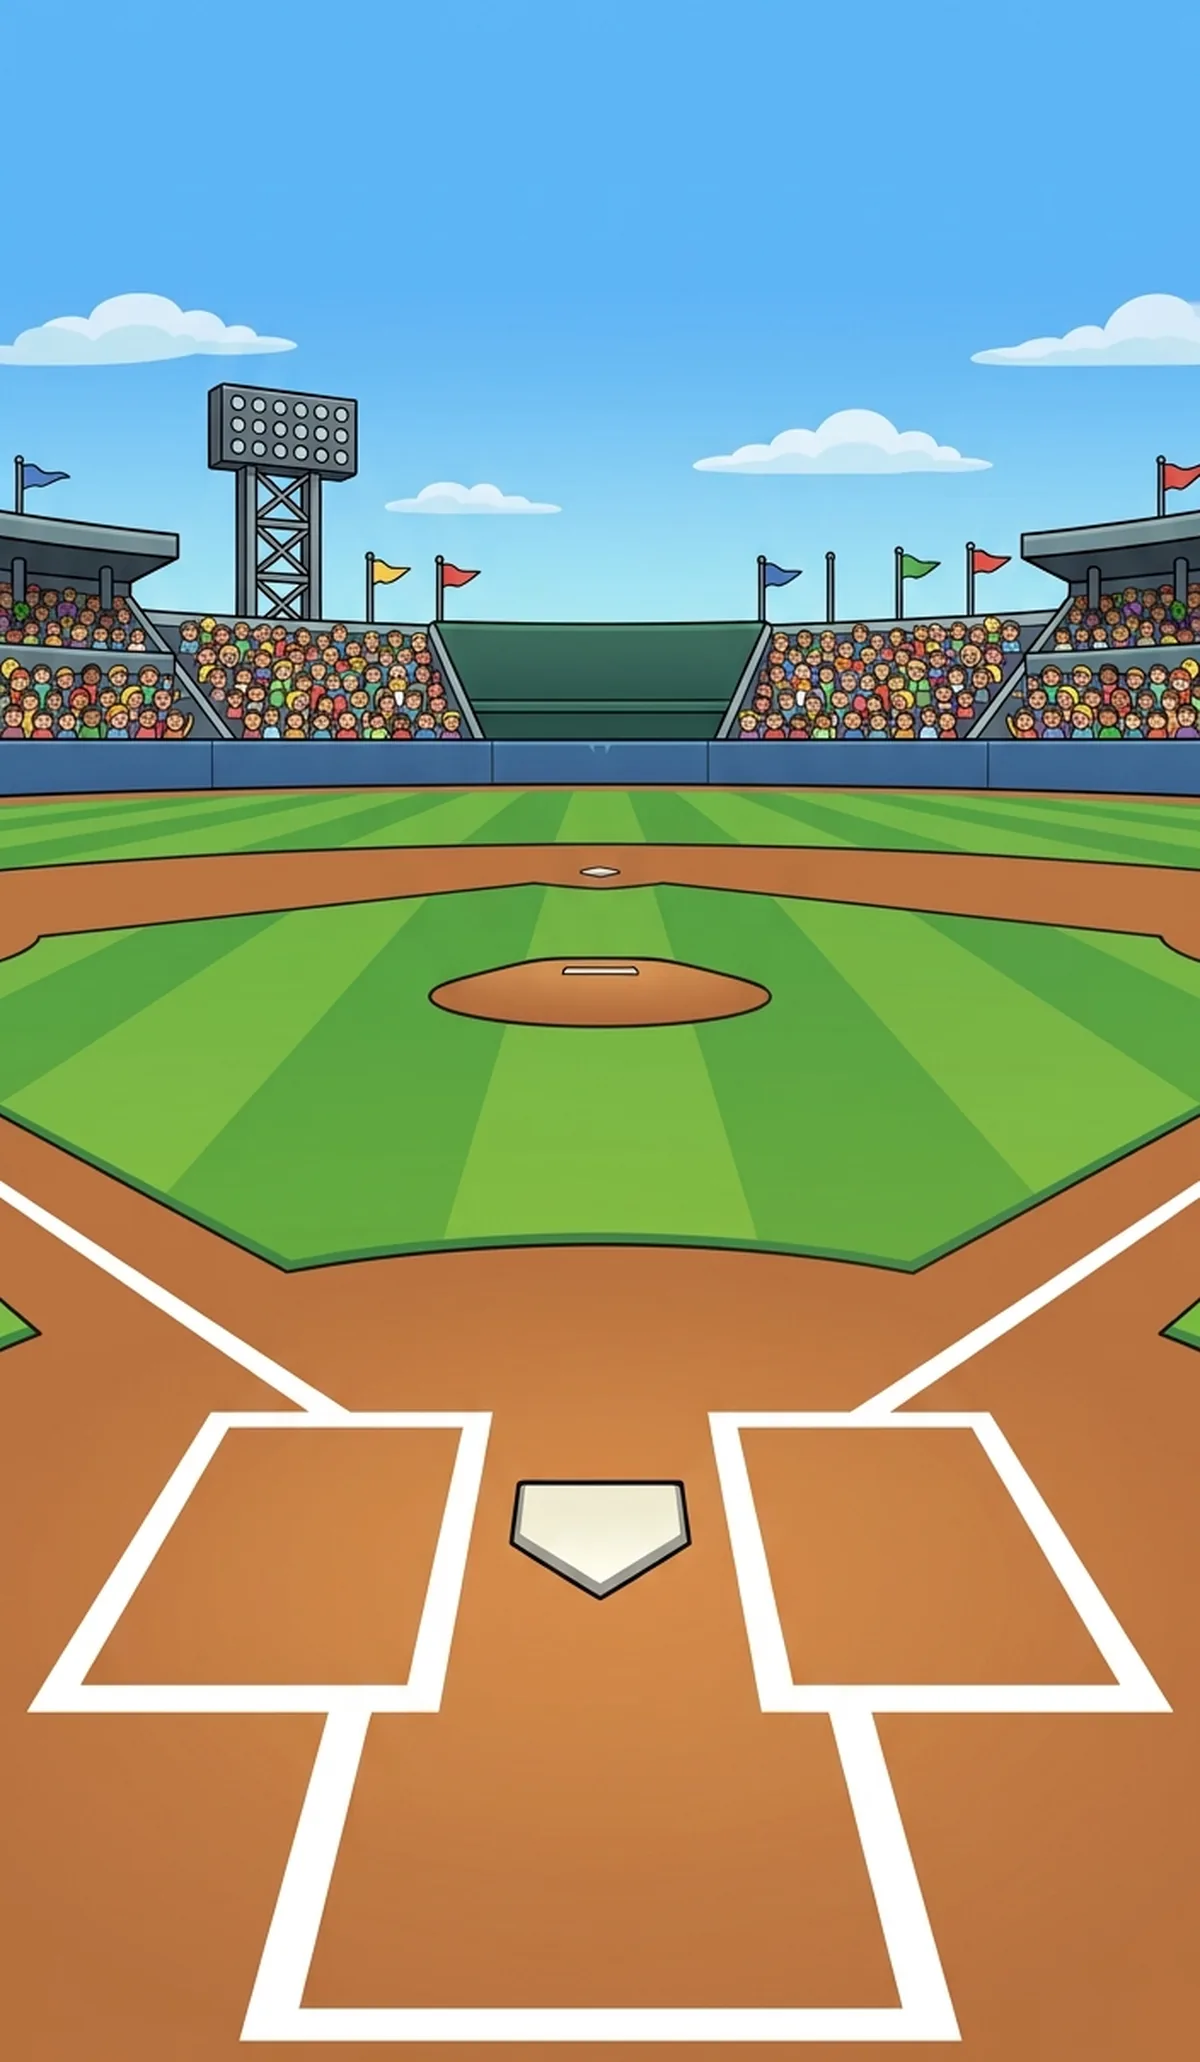
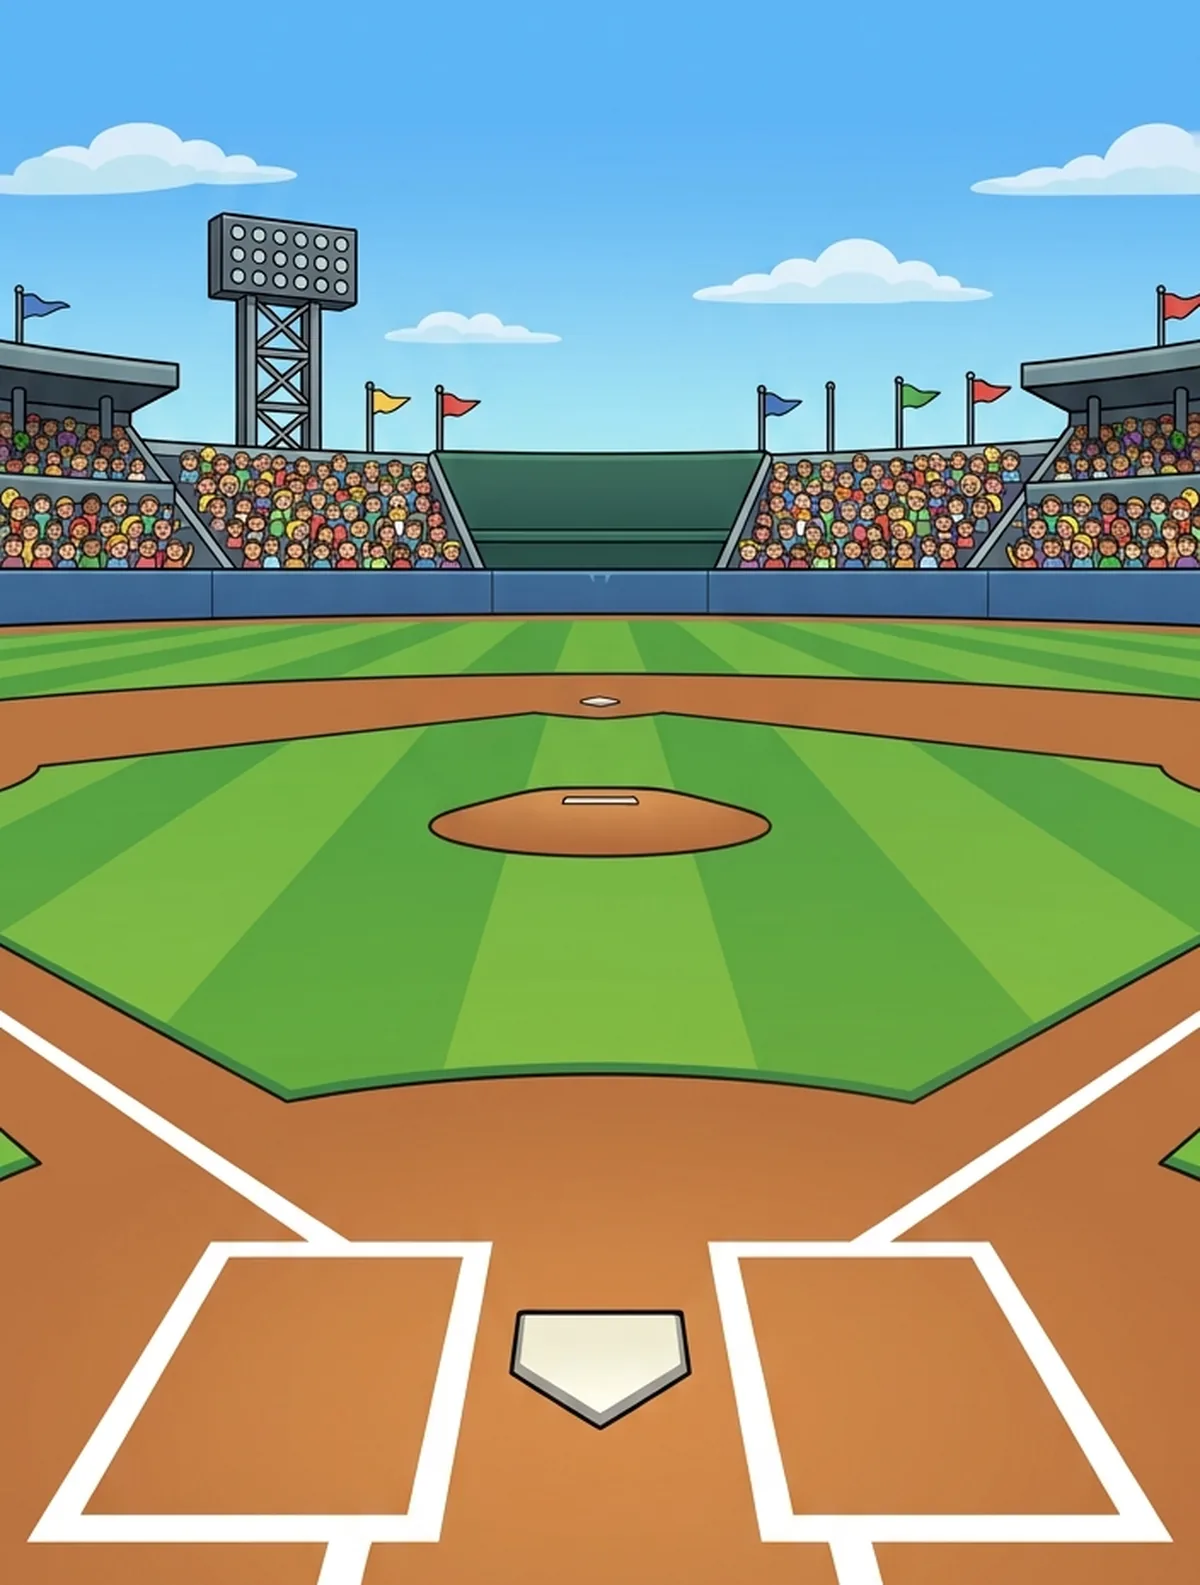
Baseball BB-3b: three review fixes before the pitcher frames
1. Steering direction clamp (doc section 11, [Locked]: "Curve and slider
   break away from the pitcher's throwing arm... You control how much and
   when, never which way"). The current build let a player's drag
   direction pick which way a curveball/slider bent, contradicting the
   lock. pitch.js gains steerDirectionSign(type, hand) and
   clampSteerDx(dirSign, dx), both pure and exported; flyPitch clamps
   every steer sample to the one physically correct direction for the
   pitch type and pitcherHand (new, additive pitchExtras field, default
   'R') before resolveSteer averages them - a wrong-way drag now
   contributes exactly 0. game.js passes the real pitcher's own .throws
   through pitchExtras.pitcherHand; ui.js's HumanAgent applies the
   identical clamp (same functions, same hand) to its own live preview
   and the break-direction arrow, so what the player sees always matches
   what the engine scores. 5 new engine tests (section 28): a wrong-way
   drag does nothing, a right-way drag still bends, a left-handed
   pitcher mirrors both, and omitting pitcherHand defaults to 'R'.

2. The strikeout/walk double pause. R2's cadence fix (commit 4) added a
   resultMs+betweenMs pause to the 'count' event handler for every
   non-atBat-ending pitch - but game.js emits 'count' for EVERY pitch
   that doesn't put the ball in play, strikeout and walk included, and
   then checks the threshold and emits 'atBatEnd' on the SAME pitch
[…]

diff --git a/baseball/js/engine/pitch.js b/baseball/js/engine/pitch.js
@@ -37,6 +37,26 @@ export function resolveSteer(steerArr, stepFilter) {
   return wSum > 0 ? dSum / wSum : 0;
 }
 
+/** doc §11, [Locked]: "Curve and slider break away from the pitcher's throwing arm. Screwball
+ *  breaks the other way. You control how much and when, never which way." So the break direction
+ *  is a fact of the pitch TYPE and the pitcher's own HAND, never the player's drag - this is the
+ *  one true sign for a given (type, hand) pair. `hand` is 'L' or 'R' (teams.js's own `throws`
+ *  field); anything else falls back to 'R'. Exported so the UI's own preview, its break-direction
+ *  arrow, and this file's own scoring all read the same fact from the same place (never
+ *  reimplemented three times to silently drift apart). */
+export function steerDirectionSign(type, hand) {
+  const armSign = hand === 'L' ? -1 : 1; // a right-handed arm's own natural break side is +1
+  return type === 'screwball' ? -armSign : armSign;
+}
+
+/** A single steer sample's dx, clamped to the one physically correct direction (`dirSign`, from
+ *  `steerDirectionSign`) - a drag the WRONG way contributes exactly 0, per the doc's own "never
+ *  which way" lock, rather than partially cancelling a correct-direction drag or (worse) bending
+ *  the pitch backward. Pure. */
+export function clampSteerDx(dirSign, dx) {
+  return dx * dirSign > 0 ? dx : 0;
+}
+
 /**
  * Throw one pitch.
  * @param {string} type - a PITCH_TYPES entry
@@ -47,14 +67,15 @@ export function resolveSteer(steerArr, stepFilter) {
  * @param {function} rand01 - () => next draw in [0,1); caller owns advancing/snapshotting state
  * @param {{pitchSpd?:number, pitchSpin?:number}} [pitcherSkills] - the pitcher's own raw skill
  *   points for §6's "Speed: pitch velocity" and "Spin: ...bigger speed gap on the changeup."
- * @param {{hold?:number|null, steer?:Array<{step:number,dx:number}>, scatter?:number}} [pitchExtras]
+ * @param {{hold?:number|null, steer?:Array<{step:number,dx:number}>, scatter?:number, pitcherHand?:string}} [pitchExtras]
  *   - BB-3: a human pitcher's hold time in ms (null/omitted = a tap, i.e. a normal pitch) and any
  *   in-flight steer samples for a steerable type. BB-3b commit 4: `scatter`, a pre-rolled [0,1)
  *   draw (the SAME draw this function would otherwise make itself via `rand01()`) - lets a human
  *   pitcher's own UI preview the pitch's aim-scatter component before this function ever runs (see
  *   game.js's `previewsPitch` seam), so what the player watched during the throw is exactly what
- *   gets scored, not a second independent draw. Omit entirely for byte-identical prior behavior -
- *   every field here is optional and additive.
+ *   gets scored, not a second independent draw. `pitcherHand` ('L'/'R', default 'R') - which way a
+ *   steerable pitch's break clamps to (see `steerDirectionSign`); irrelevant without `steer`.
+ *   Omit entirely for byte-identical prior behavior - every field here is optional and additive.
  * @returns {{type, x, isStrike, timeToPlateS, path, wasNice, wasHang}}
  */
 export function flyPitch(type, aimX, pitchAccSkill01, settings, rand01, pitcherSkills = {}, pitchExtras = null) {
@@ -122,7 +143,13 @@ export function flyPitch(type, aimX, pitchAccSkill01, settings, rand01, pitcherS
   if (steerable && pitchExtras && pitchExtras.steer && pitchExtras.steer.length) {
     const fromStep = Math.floor((steerable.steerFromFrac || 0) * totalSteps);
     const steerMaxOffset = settings.STEER_MAX_OFFSET != null ? settings.STEER_MAX_OFFSET : STEER_MAX_OFFSET;
-    const netSteer = resolveSteer(pitchExtras.steer, (step) => step >= fromStep);
+    // doc §11, [Locked]: the break direction is the pitch type and the pitcher's OWN hand, never
+    // the player's drag - a sample dragged the wrong way is clamped to 0 (see steerDirectionSign/
+    // clampSteerDx's own header) before it ever reaches resolveSteer's weighted average.
+    const hand = (pitchExtras && pitchExtras.pitcherHand) || 'R';
+    const dirSign = steerDirectionSign(type, hand);
+    const clamped = pitchExtras.steer.map((s) => (s && typeof s.dx === 'number') ? { step: s.step, dx: clampSteerDx(dirSign, s.dx) } : s);
+    const netSteer = resolveSteer(clamped, (step) => step >= fromStep);
     x += netSteer * steerMaxOffset * breakMul;
   }
 

diff --git a/baseball/js/ui.js b/baseball/js/ui.js
@@ -13,7 +13,7 @@ import * as SETTINGS from './engine/settings.js';
 import { Game } from './engine/game.js';
 import { CpuPitcher, CpuBatter } from './engine/agents.js';
 import { makeLeague, makePlayerTeam } from './engine/teams.js';
-import { resolveSteer } from './engine/pitch.js';
+import { resolveSteer, steerDirectionSign, clampSteerDx } from './engine/pitch.js';
 import { drawField, drawBall, drawLandingMarker, project, drawPlateView, drawPlateBall, preloadPlateImages, drawFrameCheck } from './field.js';
 import { drawRingState, RING_D, BTN_D, NICE_CENTER, NICE_HALF } from './ring.js';
 
@@ -555,8 +555,19 @@ class BaseballPlayScreen {
       // result-hold + between-pitch gap when a pitch CONCLUDES the at-bat; this is the other
       // case - a plain ball/strike/foul that doesn't - so every pitch gets the identical pause
       // before the next one's wind-up begins (`_stepWindup`, already wired since commit 3).
-      await sleep(RESULT_MS);
-      await sleep(BETWEEN_MS);
+      //
+      // BUT: game.js emits 'count' for EVERY pitch that doesn't put the ball in play, strikeout
+      // and walk included - it checks the strikeout/walk thresholds and emits 'atBatEnd' right
+      // AFTER this handler returns, on the exact same pitch. Pausing here too doubled the beat on
+      // those two outcomes (resultMs+betweenMs from this handler, then resultMs+betweenMs again
+      // from `_settleAtBat`) - a review fix. So: skip the pause here when this count is about to
+      // conclude the at-bat, and let `_settleAtBat`'s own (single) pause cover it instead.
+      const strikeoutPending = payload.strikes >= SETTINGS.MECHANICS.strikesForOut;
+      const walkPending = payload.balls >= SETTINGS.MECHANICS.ballsForWalk;
+      if (!strikeoutPending && !walkPending) {
+        await sleep(RESULT_MS);
+        await sleep(BETWEEN_MS);
+      }
     } else if (type === 'pitch') {
       // Handled inline by HumanAgent while the ball is in flight (it owns the visual).
     } else if (type === 'swing') {
@@ -949,6 +960,11 @@ class HumanAgent {
         const steerable = SETTINGS.STEERABLE_PITCHES[type];
         const fromStep = steerable ? Math.floor((steerable.steerFromFrac || 0) * totalSteps) : null;
         const steerMaxOffset = SETTINGS.STEER_MAX_OFFSET;
+        // doc §11, [Locked]: break direction is the pitch type and the pitcher's OWN hand, never
+        // the drag - clamped here exactly as game.js's own flyPitch call will clamp it (same
+        // function, same hand), so the live preview never shows a bend the engine won't score.
+        const pitcherHand = (pitcher && pitcher.throws) || 'R';
+        const dirSign = steerable ? steerDirectionSign(type, pitcherHand) : 1;
 
         const t0 = performance.now();
         const flightStep = (now) => {
@@ -956,7 +972,8 @@ class HumanAgent {
           const frac = Math.min(1, (now - t0) / durationMs);
           const stepIdx = Math.round(frac * totalSteps);
           if (steerable) steerSamples.push({ step: stepIdx, dx: s.padX - aimAtRelease });
-          const netSteer = steerable ? resolveSteer(steerSamples, (st) => st >= fromStep) : 0;
+          const clampedSamples = steerable ? steerSamples.map((sm) => ({ step: sm.step, dx: clampSteerDx(dirSign, sm.dx) })) : steerSamples;
+          const netSteer = steerable ? resolveSteer(clampedSamples, (st) => st >= fromStep) : 0;
           let liveX = baseX + netSteer * steerMaxOffset * breakMul;
           if (wasHang) liveX = liveX * (1 - SETTINGS.HANG_CENTER_PULL);
           s._drawStaticField();

diff --git a/baseball/js/test.js b/baseball/js/test.js
@@ -1856,5 +1856,35 @@ await (async function section27() {
 })();
 
 // ---------------------------------------------------------------------------------------------
+// Section 28 (BB-3b review fix): the steering direction clamp. Doc §11, [Locked]: "Curve and
+// slider break away from the pitcher's throwing arm... You control how much and when, never
+// which way." A drag the wrong way must produce NO bend, not a smaller or reversed one.
+(function section28() {
+  const rHand = 'R', lHand = 'L';
+  // A right-handed pitcher's curveball: steerDirectionSign('curveball','R') = +1 (armSign itself),
+  // so a positive dx (the correct direction) bends the pitch, a negative one (wrong way) does
+  // nothing - the pitch lands exactly where an empty steer array would leave it.
+  const noSteer = flyPitch('curveball', 0, 0.5, SETTINGS, mulberry32(11), {}, { hold: 50, steer: [], pitcherHand: rHand });
+  const wrongWay = flyPitch('curveball', 0, 0.5, SETTINGS, mulberry32(11), {}, { hold: 50, steer: [{ step: 0, dx: -1 }], pitcherHand: rHand });
+  const rightWay = flyPitch('curveball', 0, 0.5, SETTINGS, mulberry32(11), {}, { hold: 50, steer: [{ step: 0, dx: 1 }], pitcherHand: rHand });
+  ok(wrongWay.x === noSteer.x, 'a right-handed curveball dragged the wrong way does nothing (lands exactly where no steer would)');
+  ok(rightWay.x !== noSteer.x, 'a right-handed curveball dragged the correct way still bends');
+
+  // A left-handed pitcher's curveball breaks the MIRROR of a right-handed one's - the same dx
+  // that was "correct" for a righty is now the wrong way, and vice versa.
+  const leftyWrongWay = flyPitch('curveball', 0, 0.5, SETTINGS, mulberry32(11), {}, { hold: 50, steer: [{ step: 0, dx: 1 }], pitcherHand: lHand });
+  const leftyRightWay = flyPitch('curveball', 0, 0.5, SETTINGS, mulberry32(11), {}, { hold: 50, steer: [{ step: 0, dx: -1 }], pitcherHand: lHand });
+  const leftyNoSteer = flyPitch('curveball', 0, 0.5, SETTINGS, mulberry32(11), {}, { hold: 50, steer: [], pitcherHand: lHand });
+  ok(leftyWrongWay.x === leftyNoSteer.x, 'a left-handed curveball mirrors: the righty\'s "correct" drag direction does nothing for a lefty');
+  ok(leftyRightWay.x !== leftyNoSteer.x, 'a left-handed curveball bends on the mirrored (now-correct) drag direction');
+
+  // Omitting pitcherHand defaults to 'R' - byte-identical to passing it explicitly, so every
+  // pre-existing caller (which never set it) keeps behaving as a right-handed pitcher, exactly as
+  // this repo's teams/players have always defaulted in practice.
+  const noHandField = flyPitch('curveball', 0, 0.5, SETTINGS, mulberry32(11), {}, { hold: 50, steer: [{ step: 0, dx: 1 }] });
+  ok(noHandField.x === rightWay.x, 'omitting pitcherHand defaults to R, identical to passing it explicitly');
+})();
+
+// ---------------------------------------------------------------------------------------------
 console.log(`\n${pass} passed, ${fail} failed`);
 if (fail > 0) process.exitCode = 1;

diff --git a/baseball/js/field.js b/baseball/js/field.js
@@ -557,18 +557,26 @@ function plateImg(name) {
 // picture's own width/height - NOT of the canvas, which is a different aspect ratio at every phone
 // height. `plateCover()` below is what turns a fraction into a screen pixel, so re-measuring only
 // ever means editing this table, never touching any drawing code.
+// BB-3b review fix: `plate.webp` was re-cropped (see the commit's own note) to include the stands
+// and sky - the original crop (0,0)-(704,1210) of the source, before this fix, was tall/narrow
+// enough (aspect 1.72) that `plateCover()`'s cover-fit cropped away nearly everything above the
+// infield on any real device band (whose own aspect never exceeds about 1.07 tall, 0.56 short -
+// see SPEC.md section 0's own root-rectangle table), leaving the sky and stands invisible in
+// practice even though the source crop technically included them. Re-cropped to (0,100)-(704,1030)
+// (aspect 1.32, closer to the band's own shape) - trims a modest sky sliver off the very top and
+// the dead dirt below the batter's boxes off the bottom, keeping the floodlight tower, clouds and
+// full stands intact. Every anchor below is re-measured on the NEW crop (a white/cream-pixel scan
+// of the shipped plate.webp, not eyeballed) - this table cannot be edited without doing that again.
 export const PLATE_ANCHORS = {
-  plate: { x: 0.500, y: 0.728 },       // home plate's own center
-  mound: { x: 0.500, y: 0.463 },       // the rubber
-  release: { x: 0.550, y: 0.420 },     // where a pitcher's throwing hand sits, mound depth
+  plate: { x: 0.500, y: 0.879 },       // home plate's own center
+  mound: { x: 0.500, y: 0.505 },       // the rubber
+  release: { x: 0.550, y: 0.462 },     // where a pitcher's throwing hand sits, mound depth
   strikeZoneWidthFrac: 0.18,           // of the picture's own drawW - see the floor below
-  // Re-measured (white box-line pixel scan on the shipped plate.webp, not eyeballed) after Matt
-  // reported the batter's feet sitting on the box's own TOP edge rather than standing inside it -
-  // the box spans y=1417 (top/back edge) to y~1705 (bottom/front edge) in the 1200x2062 picture;
+  // The box spans y=1250 (top/back edge) to y~1522 (bottom/front edge) in the 1200x1585 picture;
   // these sit about 78% of the way down (toward the front edge, where a batter's own feet would
-  // actually plant), not at the box's vertical center the first measurement used.
-  nearBoxLeft: { x: 0.217, y: 0.796 },
-  nearBoxRight: { x: 0.782, y: 0.796 },
+  // actually plant), not at the box's vertical center an earlier measurement used.
+  nearBoxLeft: { x: 0.250, y: 0.922 },
+  nearBoxRight: { x: 0.750, y: 0.922 },
 };
 // Section 6 of the spec: "The strike zone has a floor of 0.30W wide so the pad's travel never
 // becomes a slider of a few pixels." Applied at render time against the CANVAS width, not the

diff --git a/sw.js b/sw.js
@@ -842,11 +842,11 @@ const REST_MANIFEST = {
   './baseball/': '62e2408169',
   './baseball/index.html': '62e2408169',
   './baseball/css/baseball.css': '6409fc75b4',
-  './baseball/js/ui.js': 'be96046933',
-  './baseball/js/field.js': '6a70092b04',
+  './baseball/js/ui.js': '82da29c3d5',
+  './baseball/js/field.js': '578286d5b5',
   './baseball/js/ring.js': '0f4dadc12d',
   './baseball/js/strings.js': 'f10561afa6',
-  './baseball/img/plate.webp': 'ba863ecd8f',
+  './baseball/img/plate.webp': 'd294f2f89f',
   './baseball/img/overhead.webp': '6c442185b5',
   './baseball/img/batter-home-1.webp': '93149652c2',
   './baseball/img/batter-home-2.webp': '78ed05d91d',
@@ -870,11 +870,11 @@ const REST_MANIFEST = {
   './baseball/img/ball-sheet.webp': '9d6a7cf9f8',
   './baseball/js/engine/rng.js': '8119f3c46a',
   './baseball/js/engine/settings.js': '6512e72eba',
-  './baseball/js/engine/pitch.js': '811a5a92fd',
+  './baseball/js/engine/pitch.js': 'efec39994a',
   './baseball/js/engine/swing.js': 'd75c8bf48b',
   './baseball/js/engine/outcomes.js': '0f250daa51',
   './baseball/js/engine/bases.js': '9ec30c4ac6',
-  './baseball/js/engine/game.js': '8e68f399bf',
+  './baseball/js/engine/game.js': 'ddad727144',
   './baseball/js/engine/agents.js': '9e3da7e924',
   './baseball/js/engine/teams.js': 'e758dc9237',
   './baseball/js/engine/zones.js': '68a4d29009',

diff --git a/baseball/js/engine/game.js b/baseball/js/engine/game.js
@@ -522,8 +522,12 @@ export class Game {
       // sets either, so their pitches are byte-identical to before this phase. BB-3b commit 4:
       // `scatter` (the pre-rolled draw above) rides along the same way, present only when it was
       // actually drawn.
+      // `pitcherHand` (pitcher.throws) is what steerDirectionSign clamps a curveball/slider's
+      // break to (doc §11, [Locked]: "never which way") - always the REAL pitcher's own hand,
+      // whether they're human or CPU, so a steer array built any other way (a future agent, a
+      // test) still clamps correctly rather than silently defaulting to 'R'.
       const pitchExtras = pitchDecision && (pitchDecision.hold != null || pitchDecision.steer || pitchView.scatterDraw != null)
-        ? { hold: pitchDecision.hold, steer: pitchDecision.steer, scatter: pitchView.scatterDraw } : null;
+        ? { hold: pitchDecision.hold, steer: pitchDecision.steer, scatter: pitchView.scatterDraw, pitcherHand: pitcher.throws } : null;
       const pitchResult = flyPitch(type, aimX, this._controlSkillFor(pitcher), this.settings, () => this._rand(), pitcher.skills, pitchExtras);
       this._recordPitch(batterId, pitchResult.type, pitchResult.x);
       await this.emit('pitch', { type: pitchResult.type, isStrike: pitchResult.isStrike });
